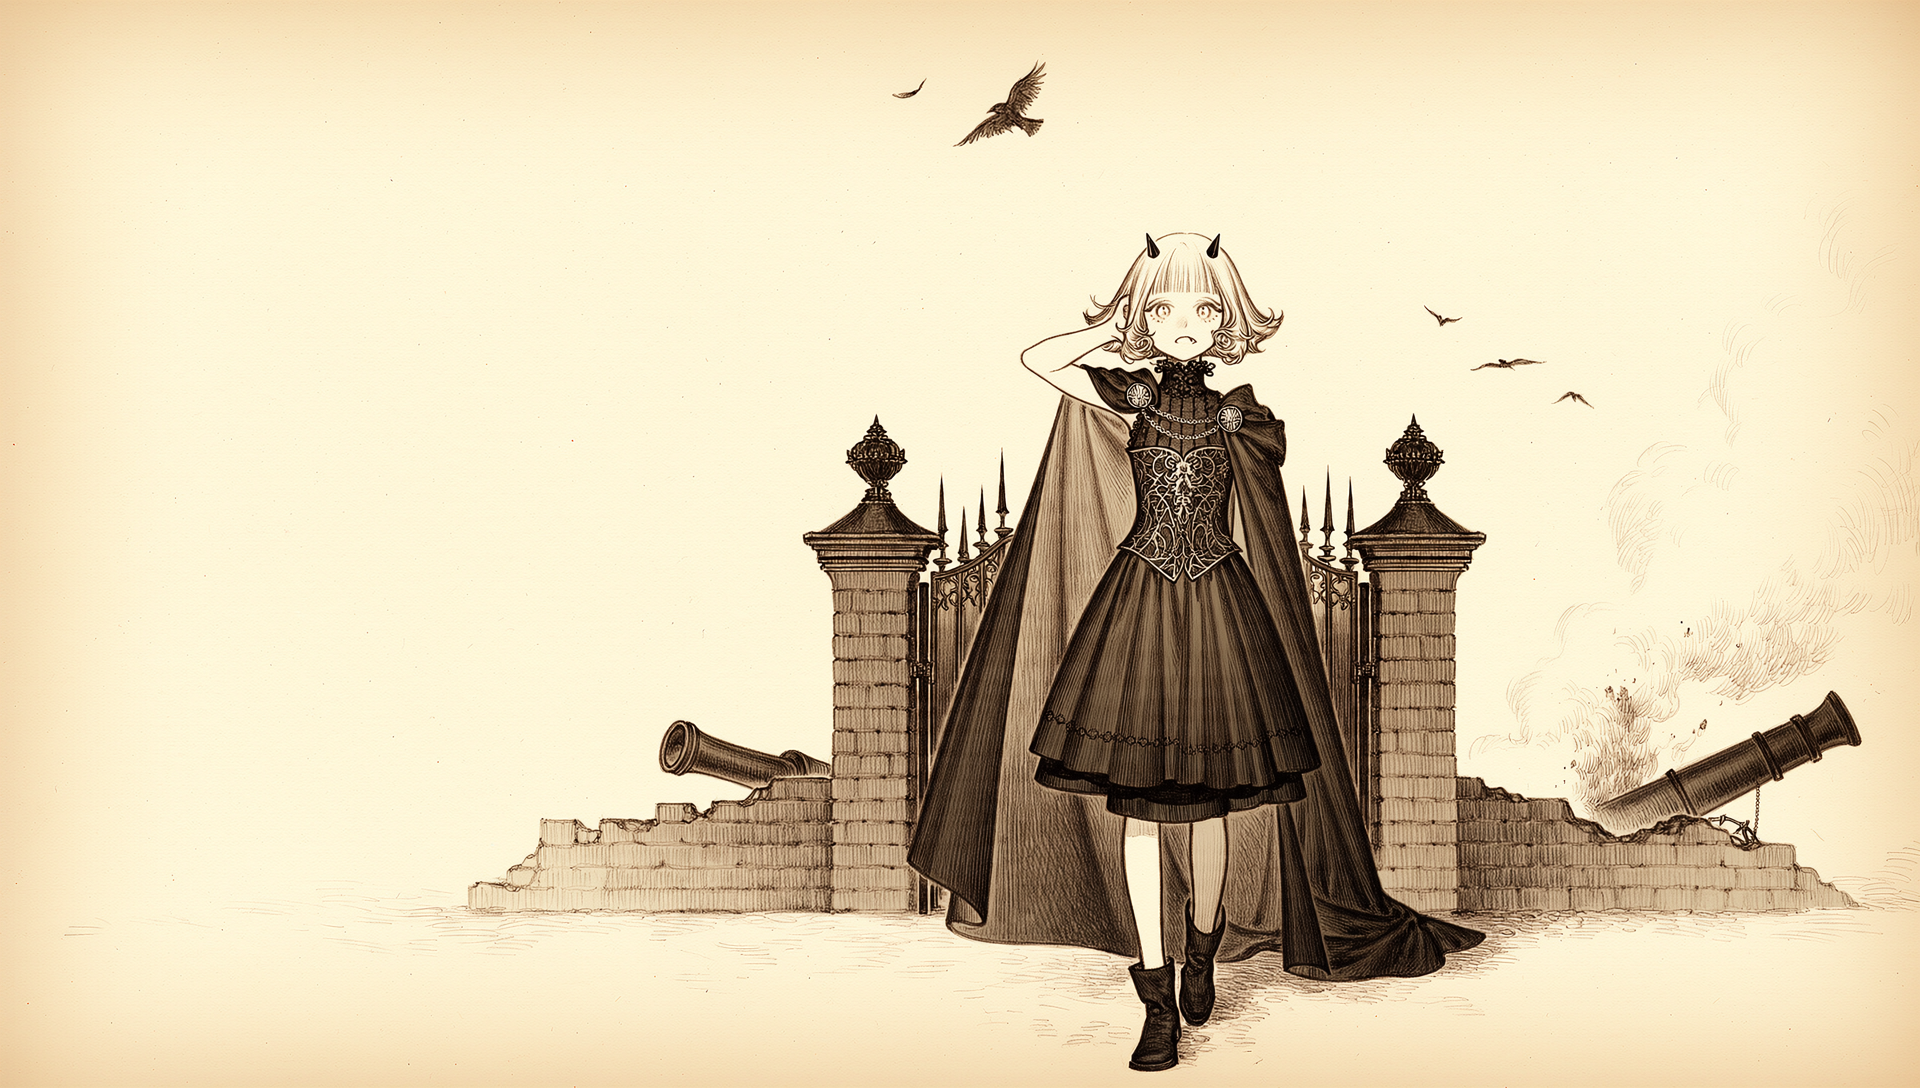
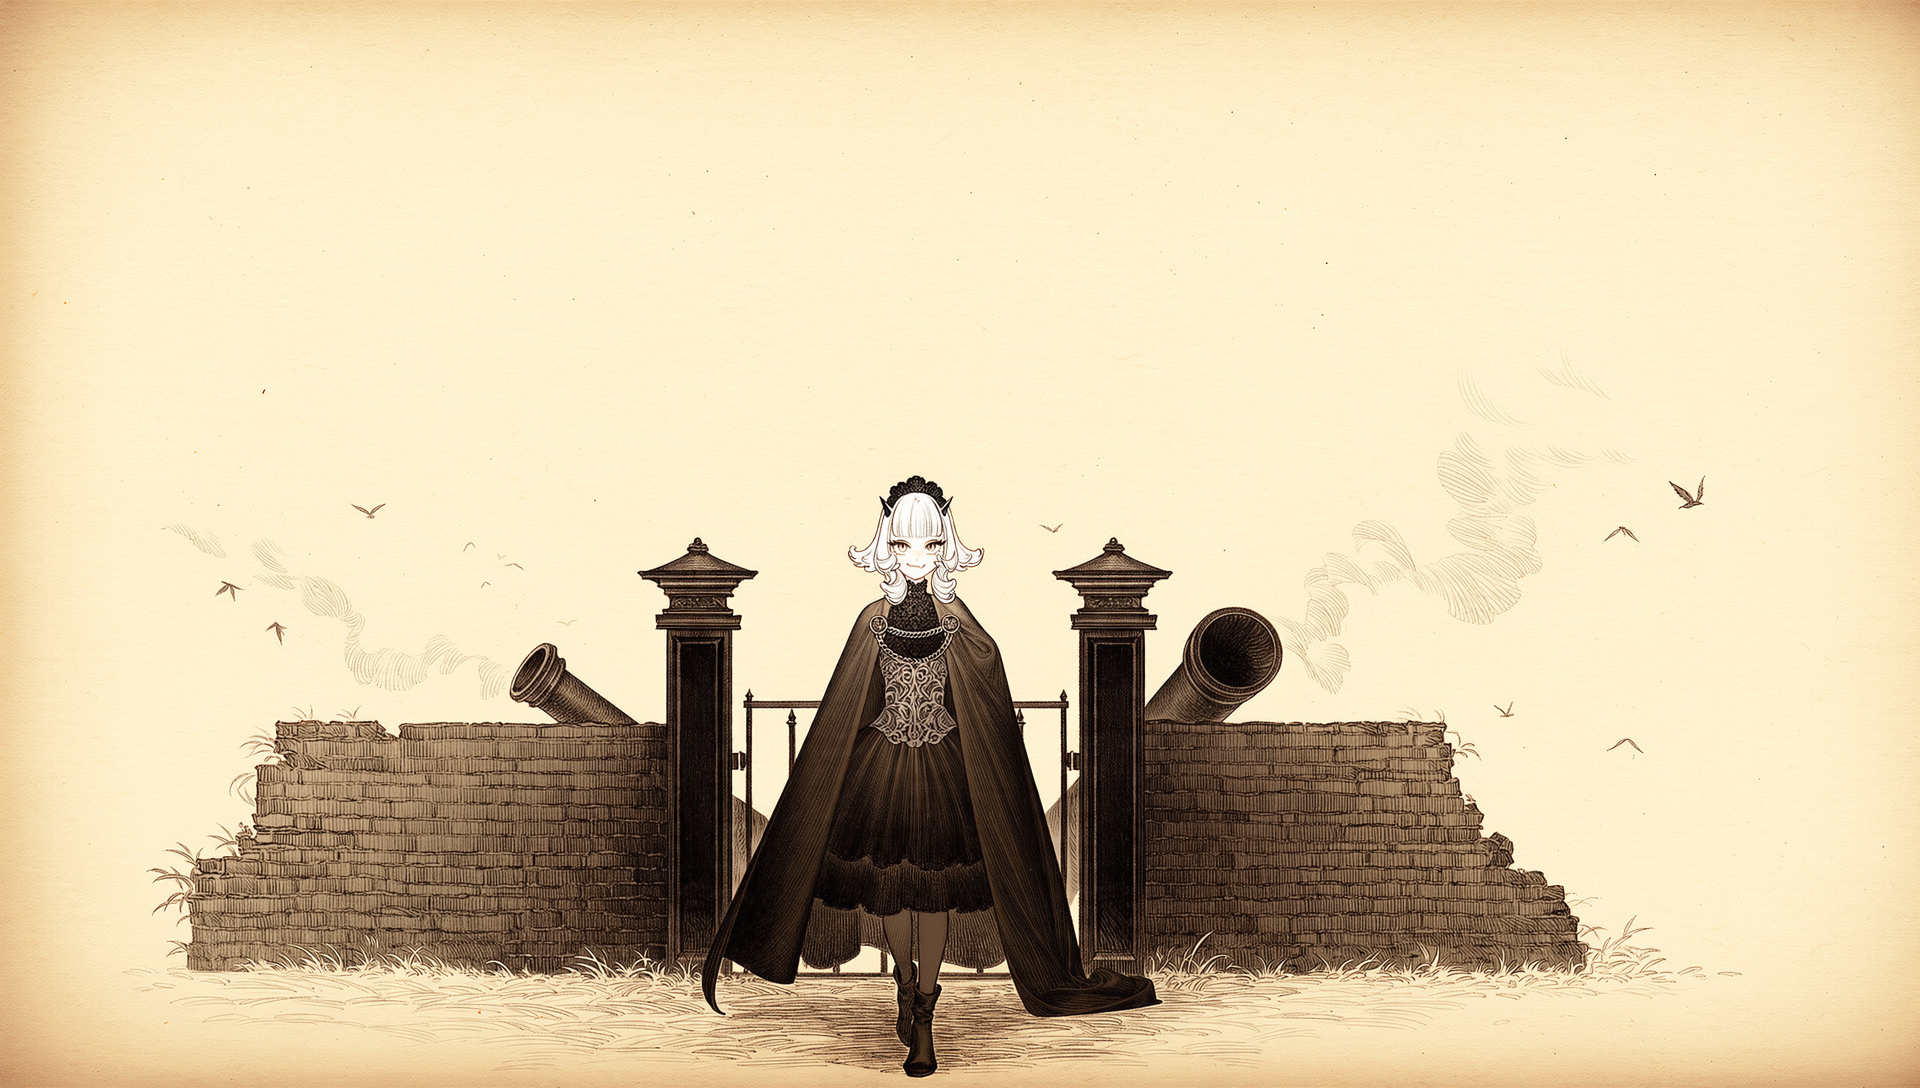
프롤로그 그림 v5: NAI 캐릭터 프롬프트 분리(@char → char_captions)로 공주 얼굴 일관성 + 아니메풍 얼굴

diff --git a/Tools/gen_env_nai.py b/Tools/gen_env_nai.py
@@ -7,6 +7,10 @@ The prompts are NOT stored here. They are read straight from "Art Prompts/":
 The only change made to a section prompt: "{{black background, simple background}}" /
 "on a solid black background" become a real transparent background (V5 alpha output).
 
+Character prompts (V4+ char_captions, so two people don't blend into one face): inside a section,
+  @char C3: <caption for one character> || <that character's negative>
+one line per character; the grid position (A-E left→right, 1-5 top→bottom, like the NAI UI) is optional.
+
 Size comes from an aspect hint in the section header (or its parent "##" header):
   16:9, 21:9, 3:2, 1:1, 2:3, 9:16, 9:21   (default 1:1; override with --size WxH)
 
@@ -32,6 +36,7 @@ MAX_FREE_PIXELS = 1024 * 1024        # Opus free-generation limit
 
 ASPECTS = {"21:9": (1472, 704), "16:9": (1344, 768), "3:2": (1216, 832), "1:1": (1024, 1024),
            "2:3": (832, 1216), "9:16": (768, 1344), "9:21": (704, 1472)}
+CHAR = re.compile(r"^@char\s*(?:([A-Ea-e])([1-5]))?\s*:\s*(.*)$")
 HEADER = re.compile(r"^(#{2,3})\s+(\d+(?:-[A-Za-z])?)\.\s*(.*)$")
 BLACK_TAG = re.compile(r"\{*\s*black background\s*,\s*simple background\s*\}*\s*,?\s*")
 BLACK_PHRASE = re.compile(r"(?:isolated\s+)?(?:cleanly\s+)?on a solid black background(?: for easy alpha extraction)?")
@@ -69,9 +74,16 @@ def load_sections():
                     size = aspect_of(h.group(3))
                     if h.group(1) == "##":
                         parent_size = size
-                    cur = {"title": h.group(3), "lines": [], "size": size or parent_size or ASPECTS["1:1"],
+                    cur = {"title": h.group(3), "lines": [], "chars": [], "size": size or parent_size or ASPECTS["1:1"],
                            "file": os.path.basename(path)}
                     sections[f"{num}:{h.group(2)}"] = cur
+                elif cur is not None and CHAR.match(line):
+                    c = CHAR.match(line)
+                    text, _, cneg = c.group(3).partition("||")
+                    pos = None
+                    if c.group(1):
+                        pos = {"x": 0.1 + 0.2 * "abcde".index(c.group(1).lower()), "y": 0.1 + 0.2 * (int(c.group(2)) - 1)}
+                    cur["chars"].append({"caption": text.strip().rstrip(","), "neg": cneg.strip().rstrip(","), "pos": pos})
                 elif cur is not None and line and not line.startswith("#") and not line.startswith("---"):
                     cur["lines"].append(line)
     out = {}
@@ -108,6 +120,14 @@ def build(section, size, seed, base, neg):
         "v4_negative_prompt": {"caption": {"base_caption": neg, "char_captions": []},
                                "legacy_uc": False},
     }
+    chars = section.get("chars") or []
+    if chars:
+        coords = any(c["pos"] for c in chars)
+        centre = lambda c: c["pos"] or {"x": 0.5, "y": 0.5}
+        params["v4_prompt"]["caption"]["char_captions"] = [{"char_caption": c["caption"], "centers": [centre(c)]} for c in chars]
+        params["v4_negative_prompt"]["caption"]["char_captions"] = [{"char_caption": c["neg"], "centers": [centre(c)]} for c in chars]
+        params["v4_prompt"]["use_coords"] = coords
+        params["characterPrompts"] = [{"prompt": c["caption"], "uc": c["neg"], "center": centre(c), "enabled": True} for c in chars]
     if transparent:
         # V5 web-client behaviour: the tag alone or these flags alone are not enough.
         params["straight_alpha"] = True
